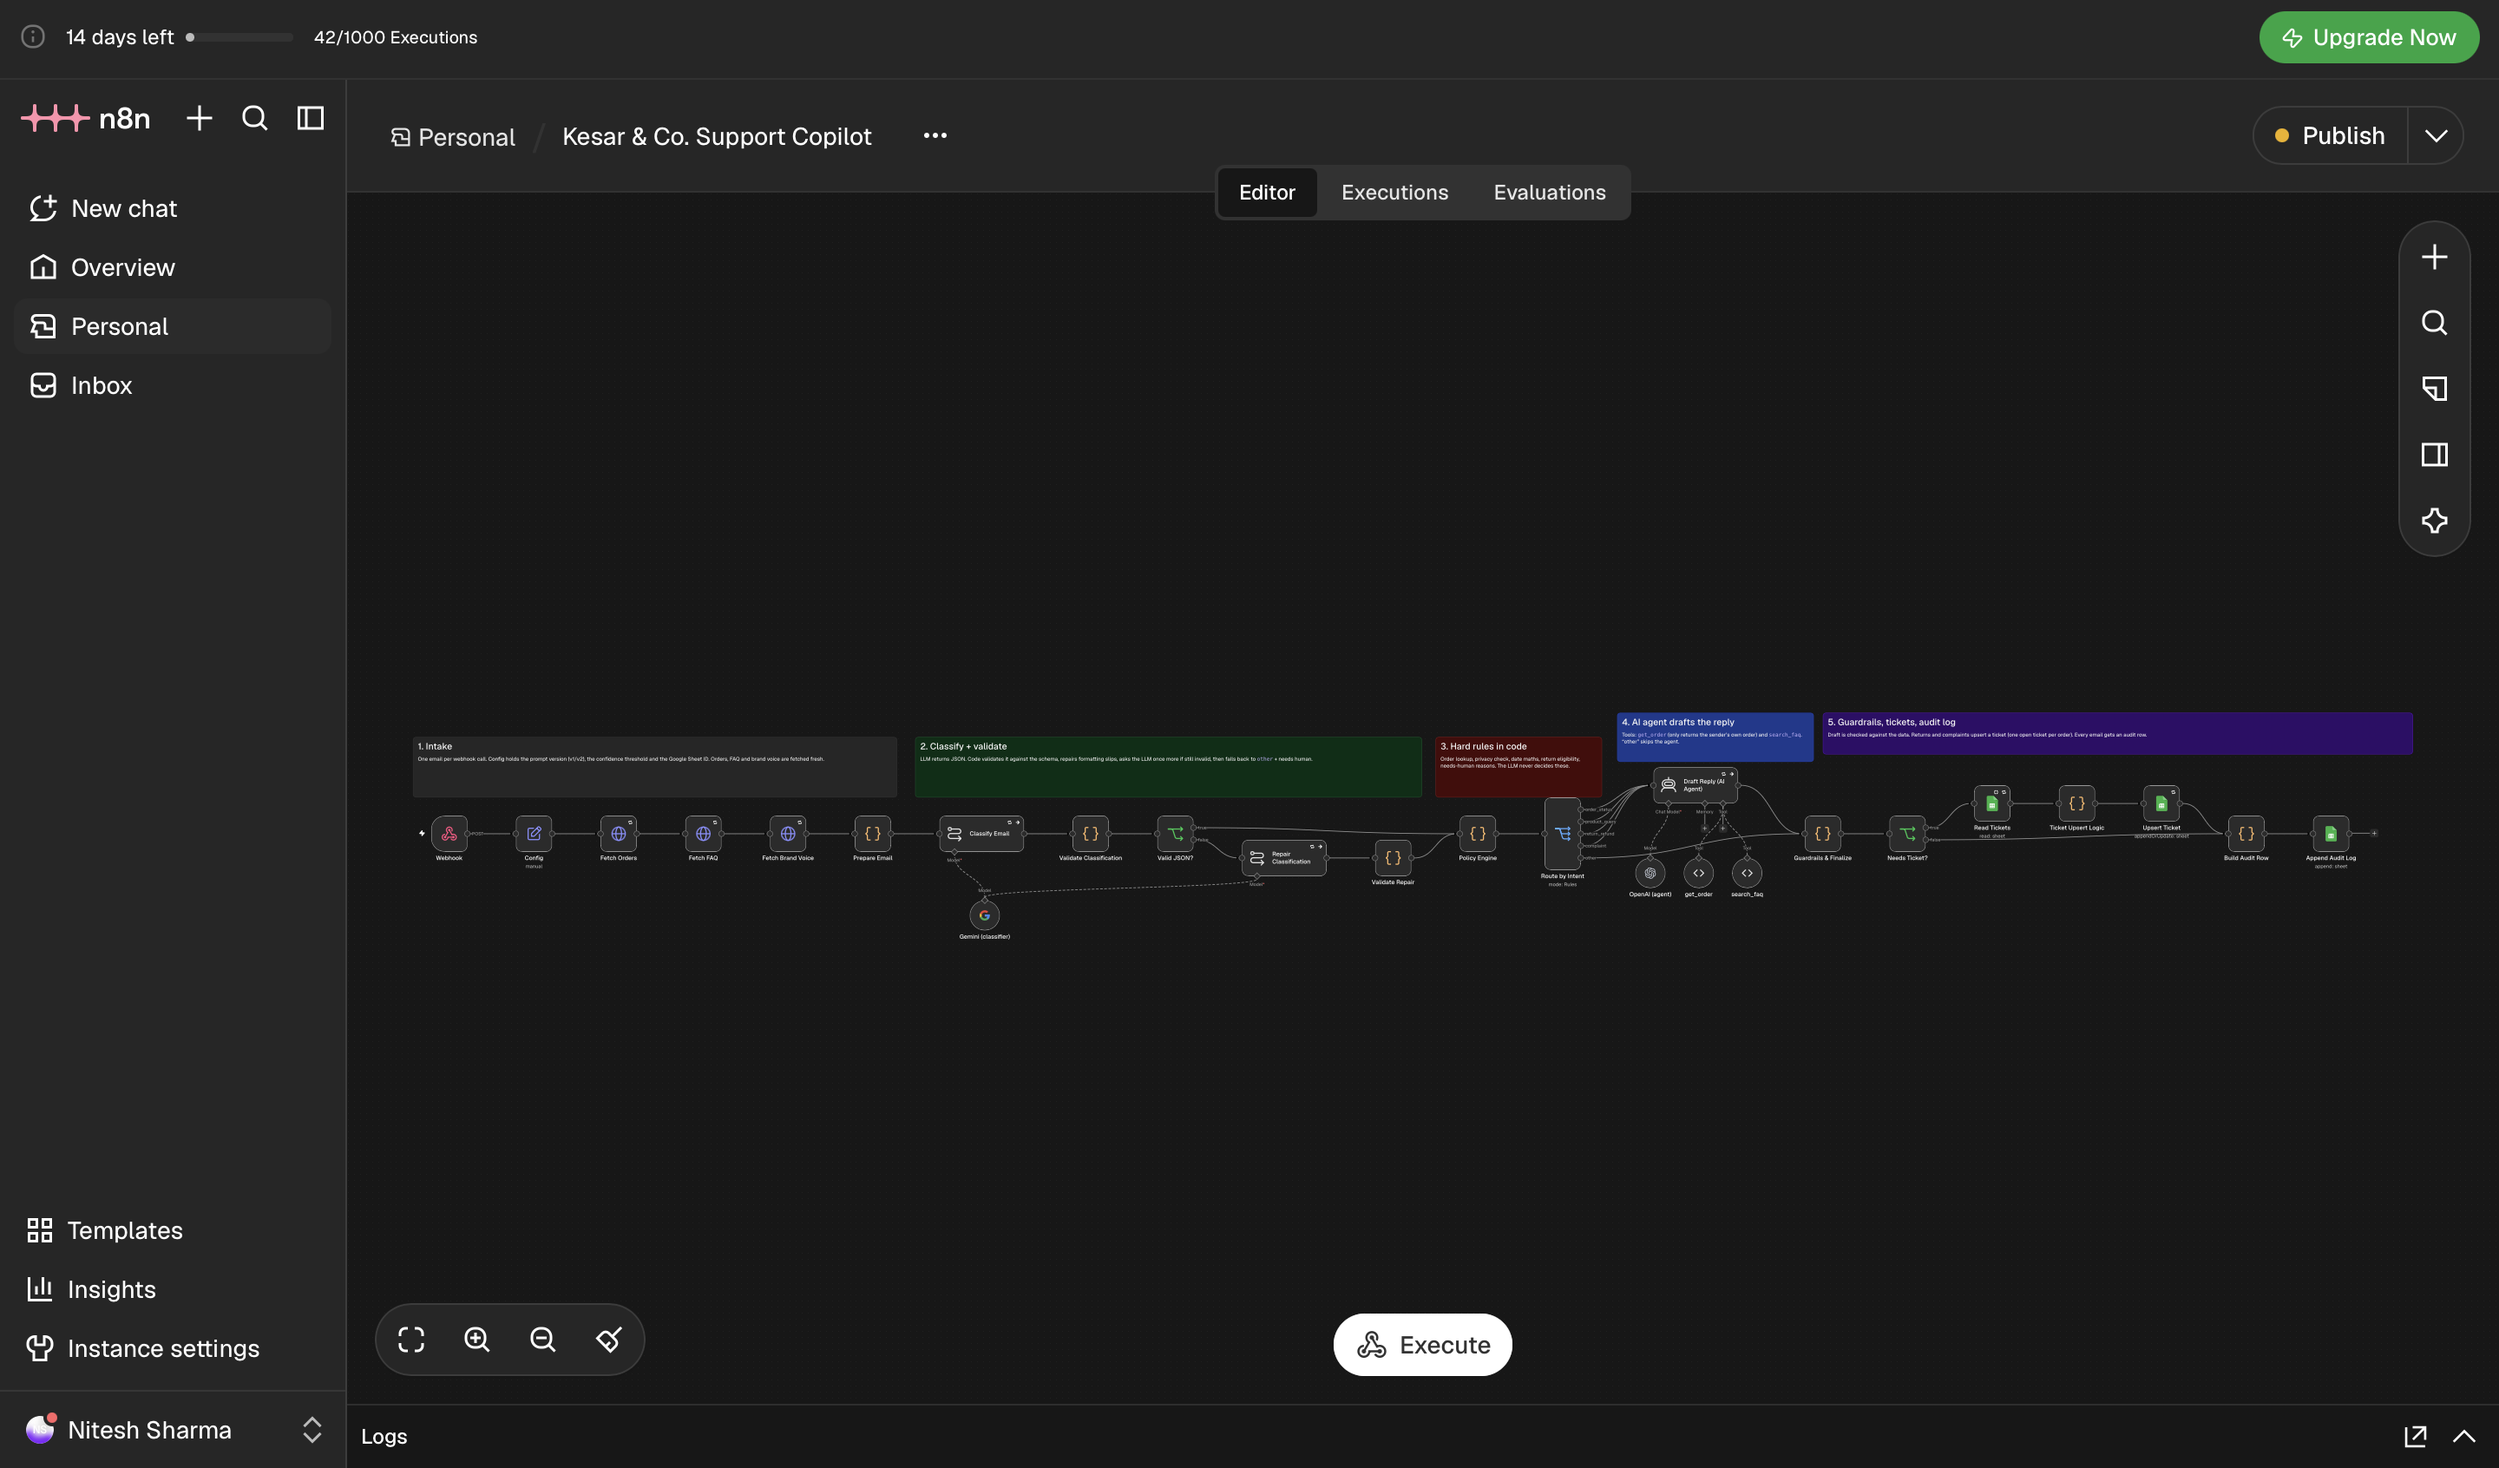
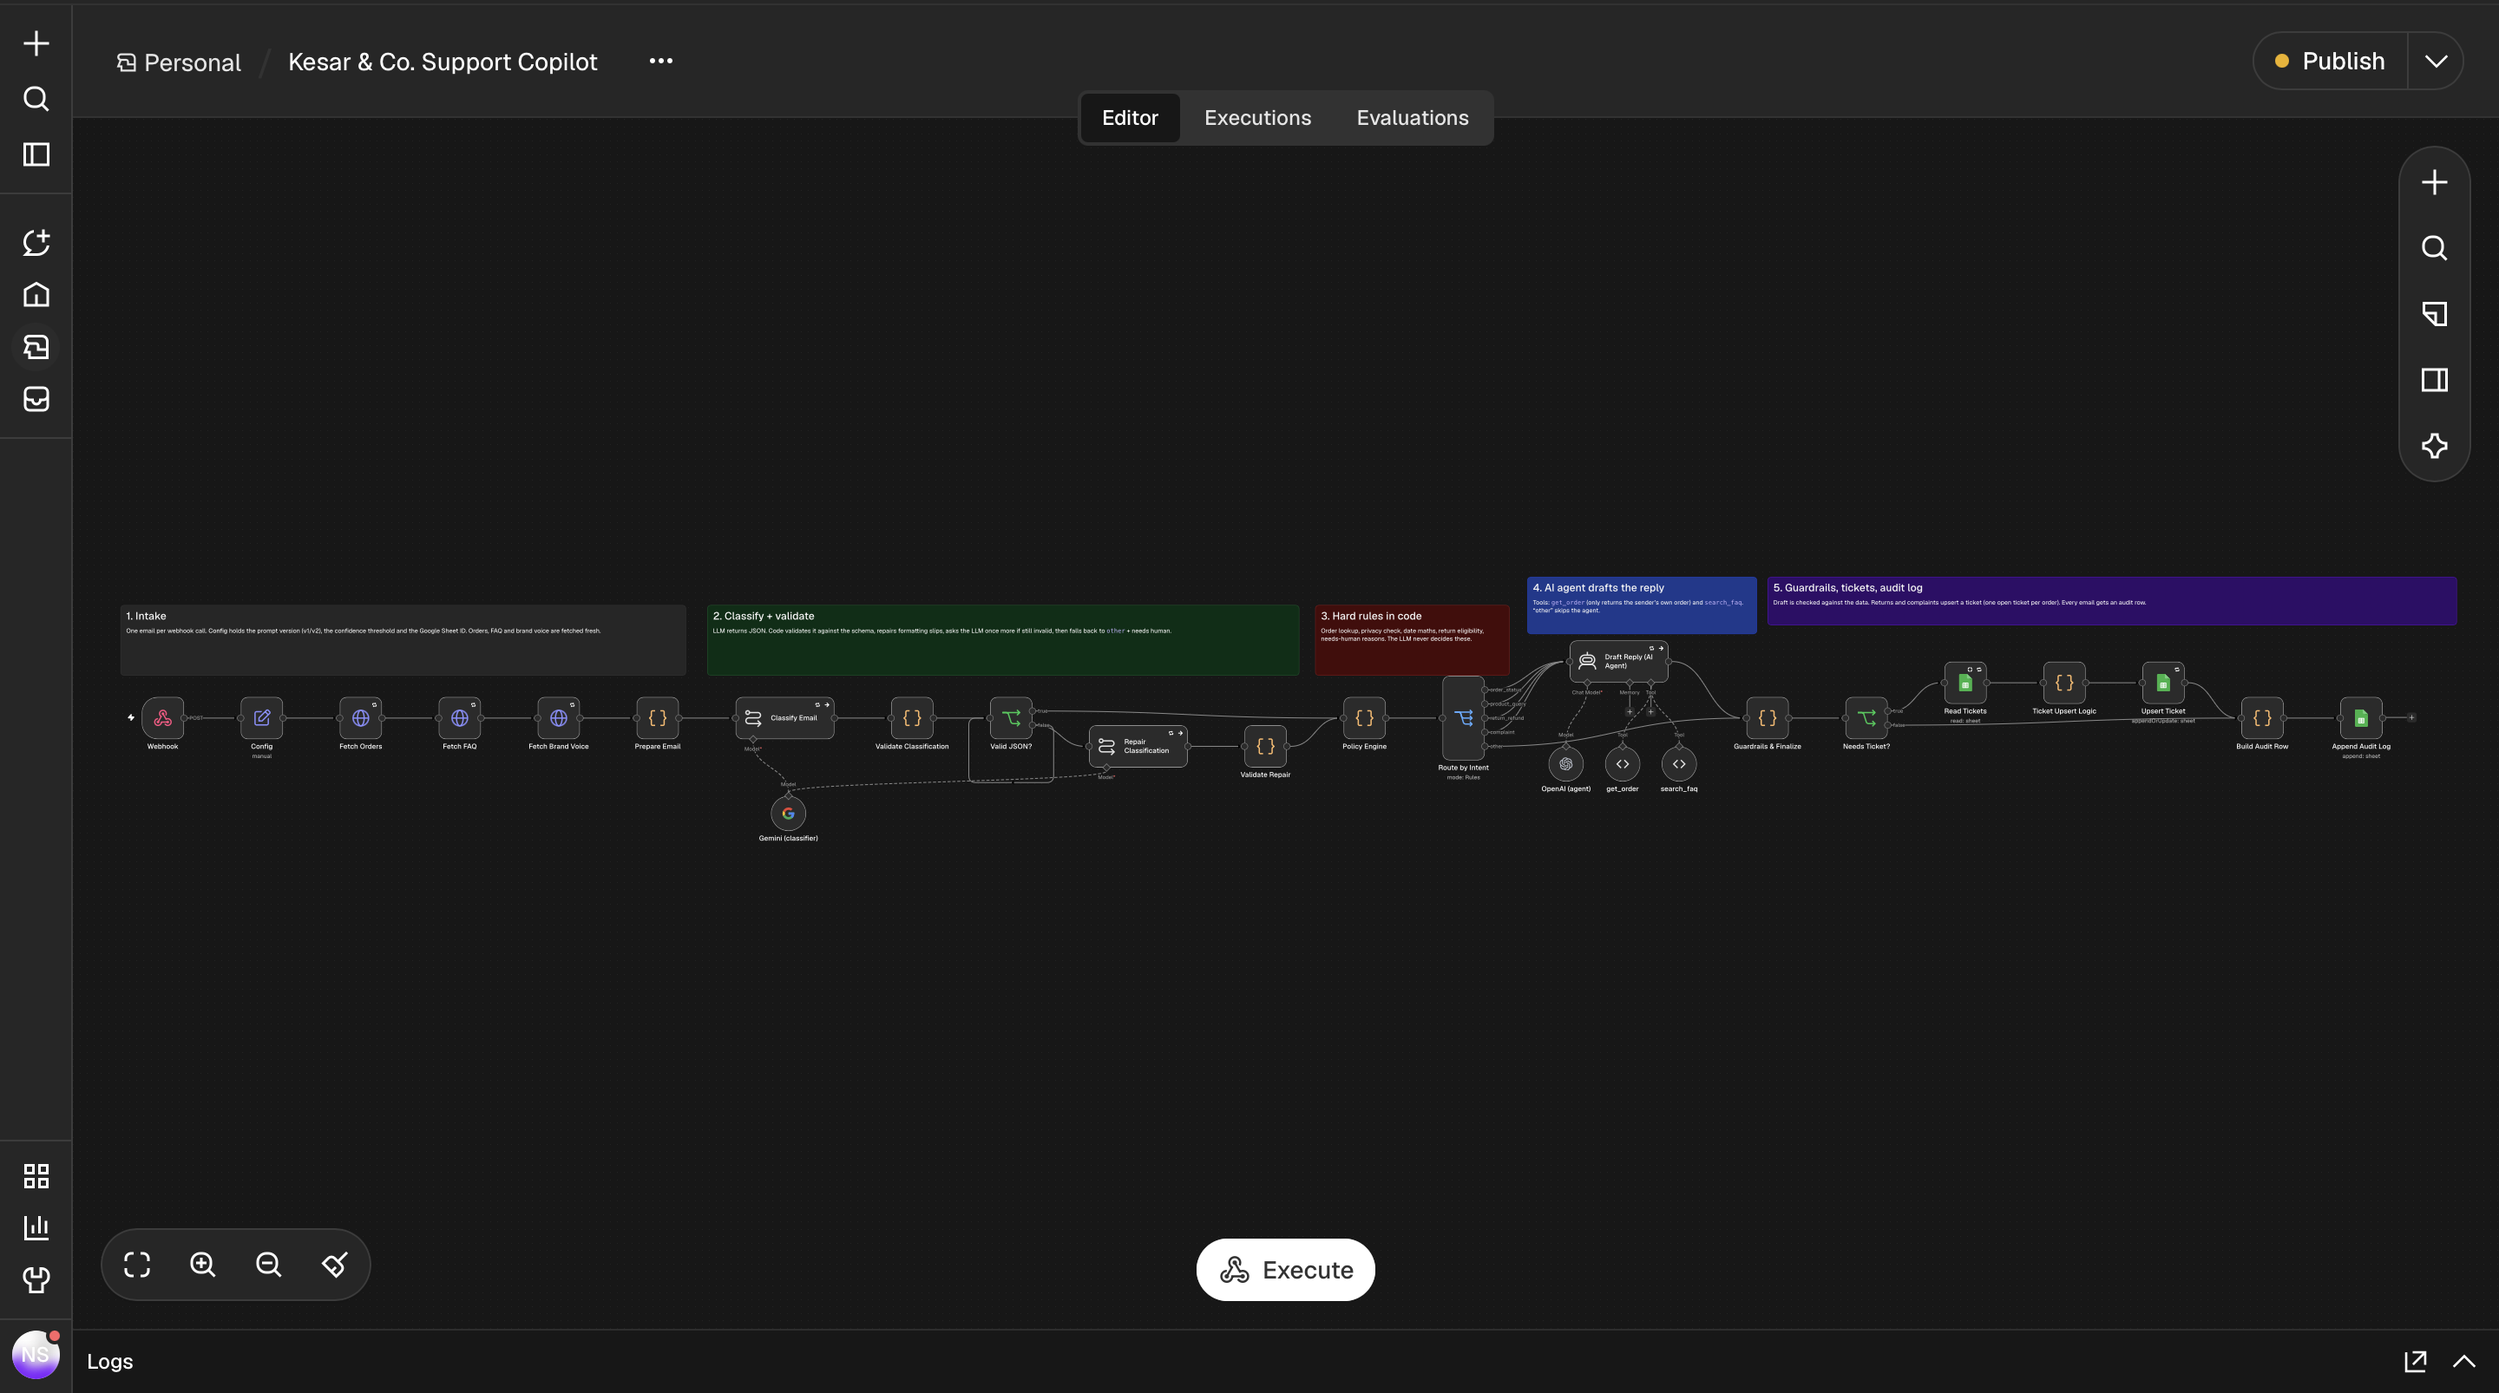
Refactor code structure for improved readability and maintainability

diff --git a/README.md b/README.md
@@ -1,13 +1,11 @@
-# Kesar & Co. Support Copilot — TODO: your name
-
-> **Before submitting:** search this file for `TODO` and fill in each one (name, links, time spent, results).
+# Kesar & Co. Support Copilot — Nitesh Sharma
 
 ## 1. Summary
 
 - **What I built:** an n8n workflow that takes one support email per webhook call, classifies it with an LLM into the required JSON, applies the business rules in code (order lookup, privacy, return eligibility, needs-human), lets an AI agent with two tools draft the reply, upserts a ticket for returns and complaints, and writes one audit row per email to Google Sheets.
 - **Platform and LLMs:** n8n Cloud (trial). Classifier: Google Gemini 2.5 Flash, temperature 0. Reply-drafting agent: OpenAI gpt-5-mini, reasoning effort low. Both run on n8n's built-in AI gateway credits, so no API keys are stored anywhere. I started with Gemini for both; why the agent moved to OpenAI is in `TEST_REPORT.md` section 4.
-- **Time spent:** TODO hours.
-- **Links:** [Google Sheet](https://docs.google.com/spreadsheets/d/14uz7z-TBI9m4w1qoEyQqLWwFDD-tvAIICsP-F21Kygo/edit?usp=sharing) · Screen recording: TODO
+- **Time spent:** about 3.5 hours, including account setup, both test runs and the write-up.
+- **Links:** [Google Sheet](https://docs.google.com/spreadsheets/d/14uz7z-TBI9m4w1qoEyQqLWwFDD-tvAIICsP-F21Kygo/edit?usp=sharing) · Screen recording: TODO add the Loom link · Screenshots: [workflow](./screenshots/workflow.png), [tickets](./screenshots/tickets.png), [audit log](./screenshots/audit_log.png)
 - **What works / what doesn't:** In the final v2 run all 25 emails got the right intent and the right action (ticket, needs-human, eligibility decision), 9 tickets with no duplicates, and I found no invented facts when reading the drafts. The v1 baseline got every intent right too but only 3/12 actions, mainly because it relied on model confidence, which was 0.90–0.98 on every email. Still weak: confidence is useless as a signal, one draft (E05) misses the customer's travel date, and the agent cannot use Gemini in n8n (details in `TEST_REPORT.md`).
 
 Design principle: **the LLM reads and writes; code decides.** Anything that would be costly to get wrong (who may see an order, whether a return is eligible, whether a human must look) is an explicit check in a Code node, so an email cannot talk the system out of it.
@@ -103,11 +101,9 @@ The agent's user message is built per email by the Policy Engine: the task, a `<
 
 ## 7. Product-thinking questions
 
-> TODO: these are first drafts. Rewrite them in your own words and replace assumptions with what you measured.
-
 1. **Auto-send vs. draft.** I would auto-send only replies where a wrong answer is cheap and every fact is machine-checked: order-status replies where the order was found, the sender matches, the order is neither cancelled nor overdue, and the guardrails passed; and FAQ answers the agent grounded without escalating. Everything involving money, a refusal, a complaint, an angry customer, privacy, medical topics or suspected injection stays a draft. I set the confidence threshold at 0.75, but only as one of several gates, because a model can be confidently wrong. I would start with nothing auto-sent for two weeks, compare drafts with what the human actually sent, and unlock auto-send per category once edits fall below about 5%.
 
-2. **Cost.** My audit log estimates about 2,900 tokens of prompt and output text per v2 email (characters ÷ 4; replied emails more, "other" emails less). The agent re-reads its context on each tool turn and gpt-5-mini adds reasoning tokens, so I budget 5,000 input and 400 output per email. At about $0.30 per million input and $2.50 per million output (TODO: check both current price lists): 5,000 × 0.30/1M + 400 × 2.50/1M ≈ $0.0025 per email, about ₹0.21. At 1,000 emails/day that is about $2.50/day, roughly $75 (about ₹6,300) per month, before retries. Even at ten times that price it is small next to one support salary, so I would spend on accuracy before optimising cost.
+2. **Cost.** Measured, not estimated: the n8n gateway balance went from $2.00 to $1.86 over 43 workflow runs (12 v1, 25 v2, 6 test runs). That is about $0.0033 per email, roughly ₹0.28 at ₹85 per dollar. It covers one Gemini 2.5 Flash classification and, for 21 of the 25 emails, two or three gpt-5-mini agent turns with tool results. At 1,000 emails/day: 1,000 × $0.0033 ≈ $3.30/day, about $100 (₹8,300) a month before retries. Gateway prices may differ from buying the APIs directly, so I would re-measure with our own keys. Even doubled, it is far below one support salary, so I would spend on accuracy before cutting cost; the first saving would be answering simple order-status emails from a template without the agent.
 
 3. **Success metric.** Week 1: the share of drafts the human sends with no edits or only cosmetic ones, per intent. It measures whether the copilot saves time and whether it is right. I would switch it off immediately on any privacy leak, any invented order fact or policy reaching a customer, or any wrongly promised refund; and pause it if the unedited rate stays under about 60% or the human spends longer reviewing than writing.
 
@@ -117,8 +113,10 @@ The agent's user message is built per email by the Policy Engine: the task, a `<
 
 ## 8. How I used AI tools
 
-- **Claude Code** wrote most of this build with me directing it: the Code-node JavaScript, the prompts, the script that assembles the n8n workflow JSON, the offline simulator, and the first draft of this README and the test report's expected-outcome columns. It also ran the workflow in a local n8n instance against a mock LLM to check the wiring before I connected real accounts.
-- TODO: describe what you did yourself and where you overruled or changed the AI's output, for example setting up accounts, running v1 and v2, reading the drafts, prompt changes you made after seeing failures, and decisions you disagreed with.
+- **Claude Code (in VS Code) was my main tool, used as a pair programmer.** It wrote most of the Code-node JavaScript, the prompts, the script that assembles the n8n workflow JSON, the offline simulator (`scripts/simulate.js`), and the first drafts of this README and the test report. Before I connected real accounts, it ran the workflow in a local n8n against a mock model to check the wiring.
+- **I connected Claude Code to my n8n Cloud instance through n8n's MCP server.** Through it, Claude changed the model nodes, published versions, sent the test emails, read the execution data to find the three problems in `TEST_REPORT.md` section 4, and pushed the fixes. It also checked that every Code node in n8n matched this repo.
+- **My part:** creating the n8n, Google and Sheet setup and the credentials, importing the workflow, clearing the sheet between the v1 and v2 runs, taking the screenshots, and reviewing the results and drafts. When the first Google Sheet was created in the wrong Google account, I had it removed and made my own.
+- **What I take from it:** the bugs that mattered (Gemini rejecting parallel tool calls, the triple audit rows, E18 passing for the wrong reason) only showed up in live runs and by reading the output, not in the plan. I can explain every node and change any of it live.
 
 ## 9. If I had one more week
 
@@ -127,4 +125,5 @@ The agent's user message is built per email by the Policy Engine: the task, a `<
 - Evaluate reply drafts automatically (grounding and tone checks) instead of reading 25 by hand.
 - Record real token usage and cost per email from the API response rather than the character-based estimate.
 - Handle photo attachments (confirm they exist and show the product) and multi-order customers.
-- TODO: add or remove items based on what failed in your run.
+- Add a date check to the guardrails (v1 invented "27 Nov" in E24, and nothing checks dates today) and pass the ETA's weekday to the agent so it can answer deadlines like E05's Monday trip.
+- Replace the model's self-reported confidence with one computed from signals (order found, sender match, two classifier samples agreeing).

diff --git a/TEST_REPORT.md b/TEST_REPORT.md
@@ -1,6 +1,6 @@
 # Test Report — Kesar & Co. Support Copilot
 
-**Candidate name:** TODO
+**Candidate name:** Nitesh Sharma
 **Platform used:** n8n Cloud (trial)
 **LLM(s) used:** Google Gemini 2.5 Flash for classification (temperature 0); OpenAI gpt-5-mini for the drafting agent (reasoning effort low). Both through n8n Cloud gateway credits.
 
@@ -65,11 +65,11 @@ v2 result: **9 tickets** (E04 and E21 share `TKT-1052-E04`, all complaints High)
 | Valid JSON on first try (x / *n*) | 0 / 12 | 25 / 25 |
 | Emails sent to "needs human" | 0 | 13 |
 | Avg. tokens per email (approx, chars/4) | 1,371 | 2,888 |
-| Est. cost per email (₹ or $) | TODO | TODO |
+| Est. cost per email (₹ or $) | ≈ $0.0033 / ₹0.28 (all runs together) | ≈ $0.0033 / ₹0.28 (all runs together) |
 
 - Intent was never the problem: both versions got every intent right. The gap is entirely in what happens after classification.
 - v1's JSON was never valid on the first try because the model wrapped it in a code fence; the code validator stripped it every time, so no email failed and no LLM repair call was needed.
-- Cost: TODO. The n8n Gateway credits started at $2.00; read the remaining balance on the `Gemini (classifier)` node and divide what was spent by the number of runs (43 workflow executions in total, including the first test runs). The token column is a characters-÷-4 estimate, not API usage.
+- Cost is measured from the n8n gateway balance: $2.00 before, $1.86 after, so $0.14 for 43 workflow executions (12 v1, 25 v2, 6 test runs) ≈ $0.0033 per email (₹0.28 at ₹85/$). The balance is shared, so v1 and v2 cannot be separated; v2 costs somewhat more per email because its prompts are longer. The token column is a characters-÷-4 estimate, not API usage.
 
 ## 4. What I changed from v1 to v2, and why
 
